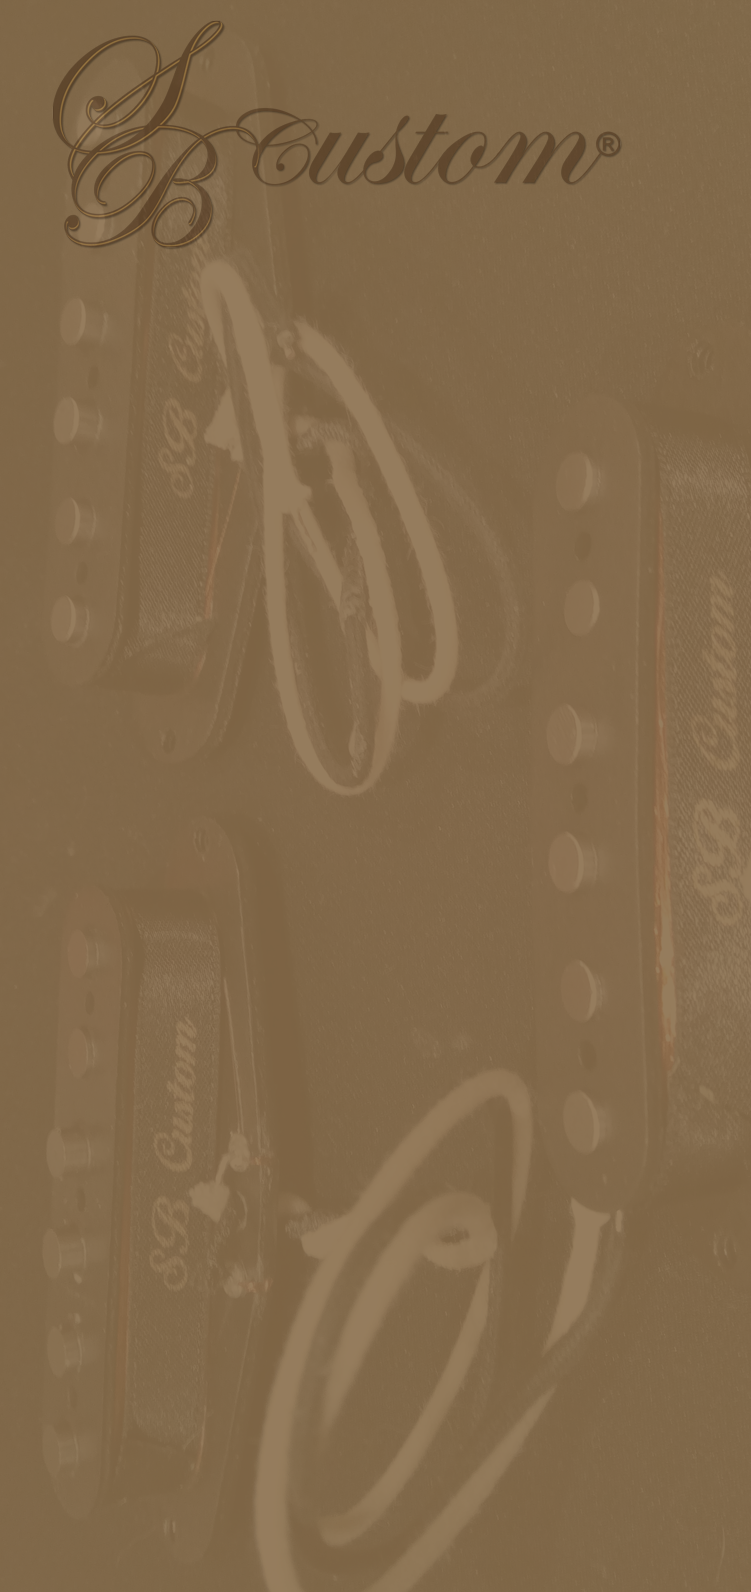
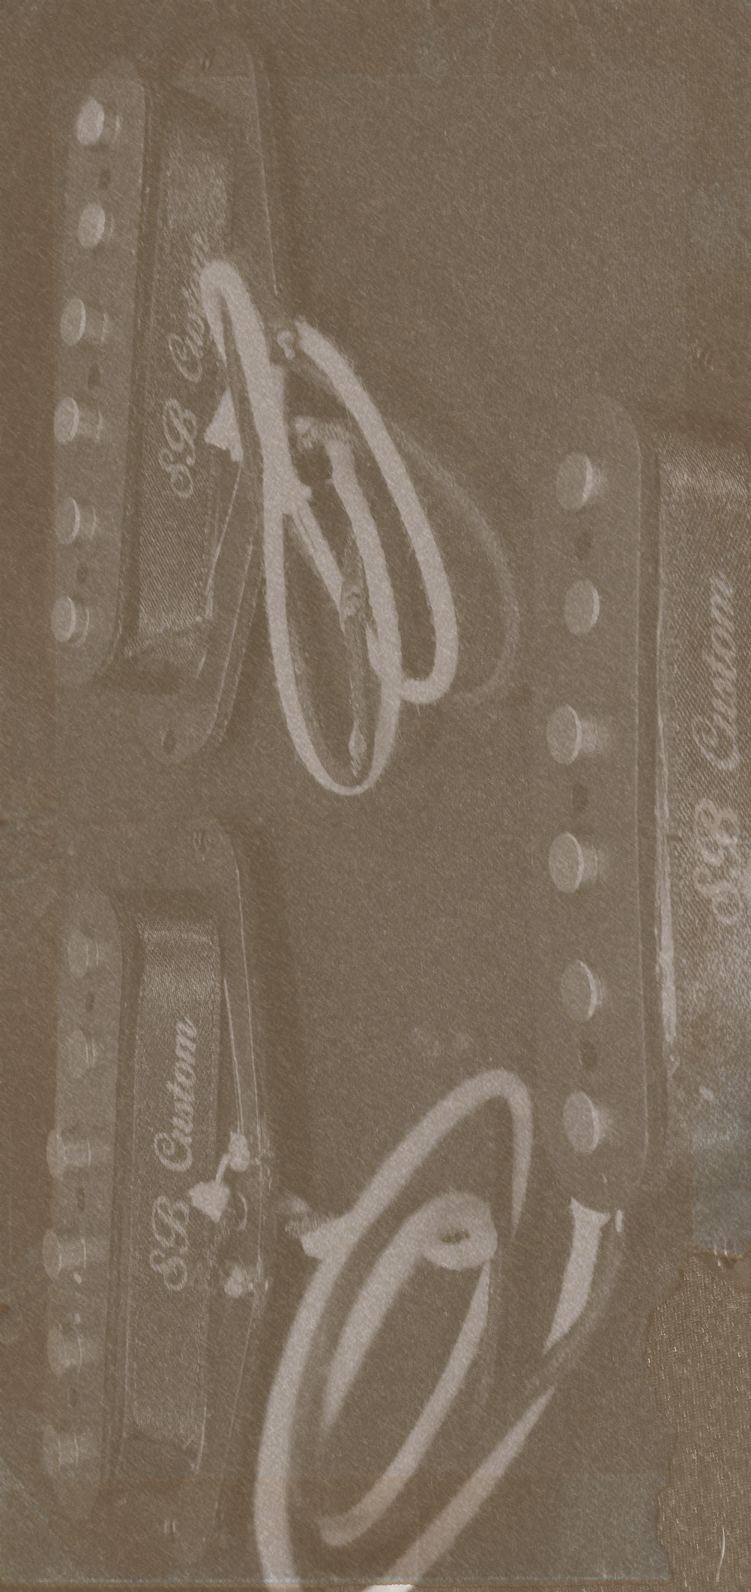
Mods

diff --git a/assets/css/style.css b/assets/css/style.css
@@ -308,7 +308,7 @@ body {
     font-family: 'Playfair Display', serif;
     position: relative;
     z-index: 10;
-    top: 35%;
+    top: 28%;
     display: table;
     margin: 0 auto;
 
@@ -320,9 +320,11 @@ body {
 }
 
 .intro-content img {
-    position: absolute;
+    position: relative;
+    display: table;
     top: 0;
     left: 0;
+    max-width: 95%;
 }
 
 .intro-content h1 {
@@ -368,7 +370,7 @@ body {
 
 .social-media a + .tooltip > .tooltip-inner {
     background-color: transparent;
-    color: #00B796;
+    color: #8a6e4b;
     font-size: 16px;
 }
 
@@ -380,7 +382,7 @@ body {
 /*Bootstrap tooltips Customized*/
 
 .social-media a:hover {
-    color: #00B796;
+    color: #8a6e4b;
 }
 
 
@@ -462,7 +464,7 @@ body {
 }
 
 .menu > div h2 span {
-    color: #00B796;
+    color: #8a6e4b;
 }
 
 
@@ -696,8 +698,8 @@ body {
 
 .filter {
     background: none;
-    border: 1px solid #00B796;
-    color: #00B796;
+    border: 1px solid #8a6e4b;
+    color: #8a6e4b;
     margin: 10px 0;
     padding: 10px 25px;
     -webkir-transition: all 0.3s;
@@ -706,12 +708,12 @@ body {
 }
 
 .filter:hover {
-    background: #00B796;
+    background: #8a6e4b;
     color: #fff;
 }
 
 .filter.active {
-    background: #00B796;
+    background: #8a6e4b;
     color: #fff;
 }
 
@@ -743,7 +745,7 @@ body {
 }
 
 .project .ovrly {
-    background: rgba(0, 183, 150, 0.5);
+    background: rgba(138, 110, 75, 0.5);
     position: absolute;
     height: 100%;
     left: 0;
@@ -819,7 +821,7 @@ body {
 
 .popup_content {
     max-width: 500px;
-    border: 5px solid #00B796;
+    border: 5px solid #8a6e4b;
     background: #fff;
 }
 
@@ -839,8 +841,8 @@ body {
 }
 
 .popup_content a {
-    border: 1px solid #00B796;
-    color: #00B796;
+    border: 1px solid #8a6e4b;
+    color: #8a6e4b;
     display: block;
     width: 150px;
     margin: 30px auto;
@@ -852,7 +854,7 @@ body {
 }
 
 .popup_content a:hover {
-    background: #00B796;
+    background: #8a6e4b;
     color: #fff;
 }
 
@@ -920,7 +922,7 @@ body {
 {
     height: auto;
     min-height: 350px;
-    background: #8a6e4b url("/assets/images/strat-logo.png") no-repeat center;
+    background: url("/assets/images/strat-logo.png") no-repeat center;
 
 }
 .flip-container a,
@@ -964,7 +966,6 @@ body {
 
 .front {
     z-index: 2;
-    background-color: #8a6e4b;
     width: 100%;
 }
 

diff --git a/assets/js/script.js b/assets/js/script.js
@@ -107,24 +107,7 @@ $(document).ready(function () {
         hideBoots4Menu();
     });
 
-    var mapCanvas = document.getElementById('map-canvas');
-    var mapOptions = {
-        center: new google.maps.LatLng(40.565934, -122.388118),
-        zoom: 16,
-        scrollwheel: false,
-        mapTypeId: google.maps.MapTypeId.ROADMAP
-    };
-    var map = new google.maps.Map(mapCanvas, mapOptions)
 
-    var marker = new google.maps.Marker({
-            position: new google.maps.LatLng(40.565234, -122.388118),
-            title:"Boots4 Office"
-        });
-
-        // To add the marker to the map, call setMap();
-        marker.setMap(map);
-
-    //google.maps.event.addDomListener(window, 'load', initialize);
 
 
     // Show Reletive Page Onclick
@@ -198,7 +181,7 @@ $(document).ready(function () {
     /*----------------------script for owl carousel sponsors---------------------*/
 
         $("#sponsor-list").owlCarousel({
-                 
+
             autoPlay: 3000, //Set AutoPlay to 3 seconds
             stopOnHover: true,
             items : 3,
@@ -227,6 +210,6 @@ $(document).ready(function () {
         var redirectPage = window.location.hash.slice(1);
         $('*[data-url_target="'+redirectPage+'"]').trigger('click');
     }
-    
+
 
 });

diff --git a/assets/css/pickups.css b/assets/css/pickups.css
@@ -1,0 +1,47 @@
+/*
+  Icon Font: pickups
+*/
+
+@font-face {
+  font-family: "pickups";
+  src: url("../fonts/pickups.eot");
+  src: url("../fonts/pickups.eot?#iefix") format("embedded-opentype"),
+       url("../fonts/pickups.woff") format("woff"),
+       url("../fonts/pickups.ttf") format("truetype"),
+       url("../fonts/pickups.svg#pickups") format("svg");
+  font-weight: normal;
+  font-style: normal;
+}
+
+@media screen and (-webkit-min-device-pixel-ratio:0) {
+  @font-face {
+    font-family: "pickups";
+    src: url("../fonts/pickups.svg#pickups") format("svg");
+  }
+}
+
+[data-icon]:before { content: attr(data-icon); }
+
+[data-icon]:before,
+.icon-p90:before,
+.icon-pbass:before,
+.icon-strat:before,
+.icon-stratocaster:before {
+  display: inline-block;
+  font-family: "pickups";
+  font-style: normal;
+  font-weight: normal;
+  font-variant: normal;
+  line-height: 1;
+  text-decoration: inherit;
+  text-rendering: optimizeLegibility;
+  text-transform: none;
+  -moz-osx-font-smoothing: grayscale;
+  -webkit-font-smoothing: antialiased;
+  font-smoothing: antialiased;
+}
+
+.icon-p90:before { content: "\f103"; }
+.icon-pbass:before { content: "\f101"; }
+.icon-strat:before { content: "\f100"; }
+.icon-stratocaster:before { content: "\f102"; }

diff --git a/index.php b/index.php
@@ -15,7 +15,7 @@
 
     <title>SB Custom :: Boutique Guitar and Bass Pickups - Custom Guitars and Basses</title>
     <link rel="icon" href="assets/img/icon/fav_icon.gif">
-    
+
 
     <!--necessary stylesheets -->
 
@@ -27,12 +27,13 @@
     <link type="text/css" rel="stylesheet" href="assets/css/owl.theme.css">
     <link type="text/css" rel="stylesheet" href="assets/css/style.css">
     <link type="text/css" rel="stylesheet" href="assets/css/sbcustom.css">
+    <link type="text/css" rel="stylesheet" href="assets/css/pickups.css">
 
     <!--[if lt IE 9]>
     <script src="https://oss.maxcdn.com/html5shiv/3.7.2/html5shiv.min.js"></script>
     <script src="https://oss.maxcdn.com/respond/1.4.2/respond.min.js"></script>
     <![endif]-->
-    
+
     <!--[if IE]>
 		<style>
 		    .flip-container:hover .back,
@@ -47,7 +48,7 @@
 
 
 <body>
-    
+
     <!-- Preloader -->
 
     <div id="preloader">
@@ -60,13 +61,13 @@
     </div>
 
     <!-- home-page -->
-    
-    <?php include_once ("partials/home.phtml"); ?>
-    
 
-    
+    <?php include_once ("partials/home.phtml"); ?>
+
+
+
     <div class="close-btn"></div>
-    
+
 
 
     <?php include_once ("partials/guitarpickups.phtml") ?>
@@ -77,13 +78,13 @@
 
 
     <?php include_once ("partials/custom.phtml") ?>
-    
+
 
 
     <?php include_once ("partials/work.phtml") ?>
-    
 
-    
+
+
     <script type="text/javascript" src="assets/js/jquery-2.1.3.min.js"></script>
     <script type="text/javascript" src="assets/js/bootstrap.min.js"></script>
     <script type="text/javascript" src="assets/js/modernizr.js"></script>
@@ -91,7 +92,6 @@
     <script type="text/javascript" src="assets/js/jquery.mixitup.min.js"></script>
     <script type="text/javascript" src="assets/js/jquery.popup.min.js"></script>
     <script type="text/javascript" src="assets/js/owl.carousel.min.js"></script>
-    <script src="https://maps.googleapis.com/maps/api/js"></script>
     <script type="text/javascript" src="assets/js/contact.js"></script>
     <script type="text/javascript" src="assets/js/script.js"></script>
     <script type="text/javascript" src="assets/js/sbcustom.js"></script>
